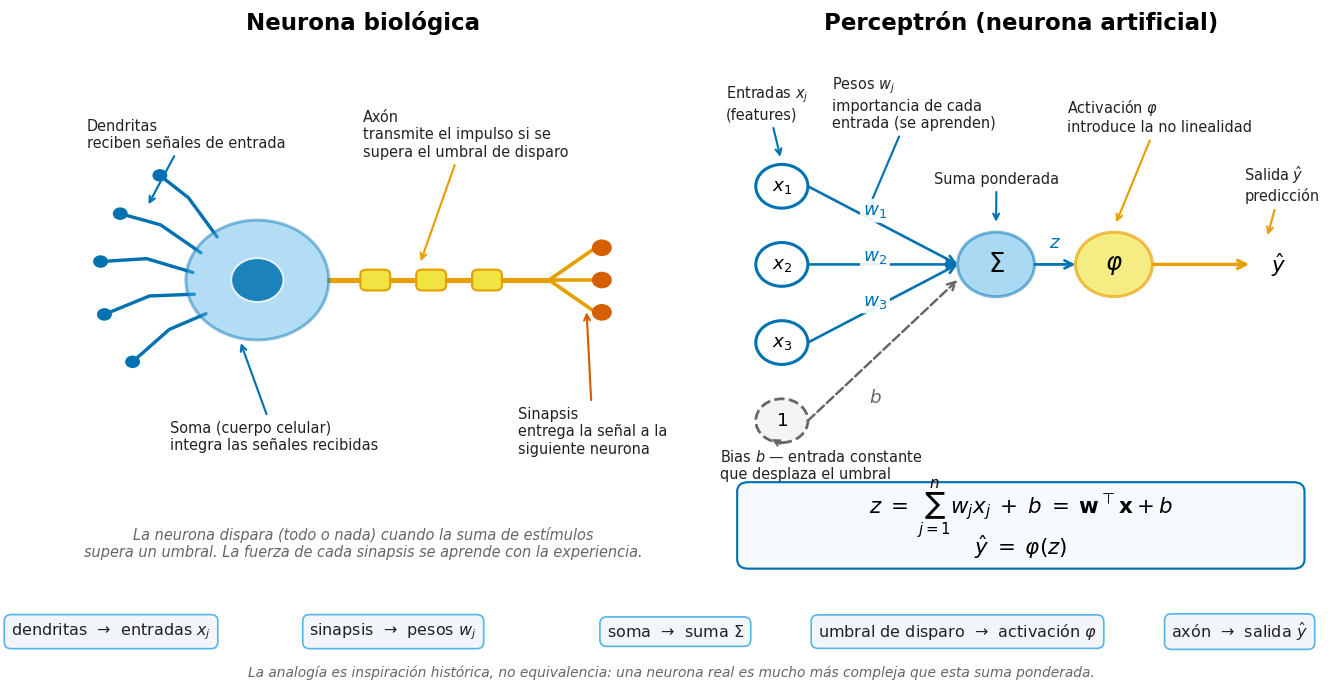
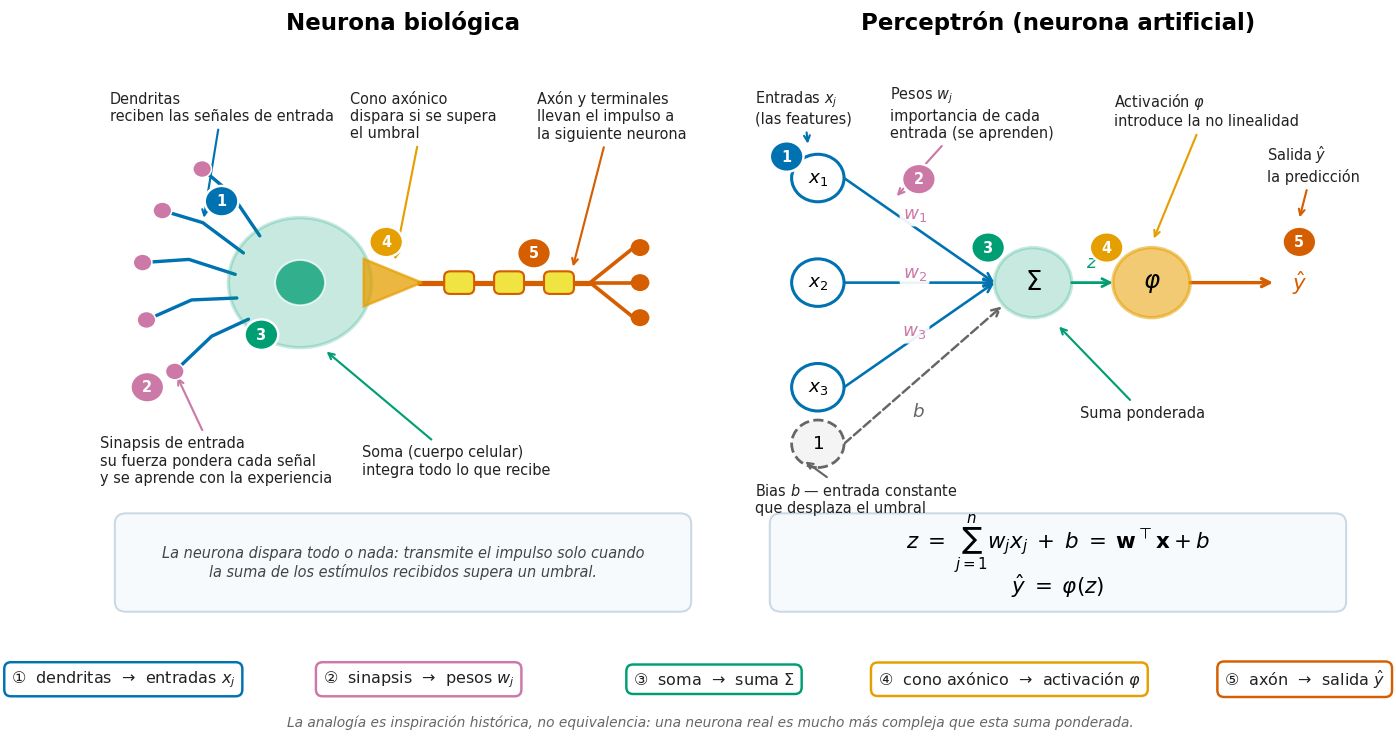
mejora: liga ambos paneles de la figura neurona/perceptrón y corrige la sinapsis
La versión anterior etiquetaba como 'Sinapsis' los terminales del axón, que
son la salida, mientras el mapa inferior decía 'sinapsis → pesos'. Los pesos
corresponden a las sinapsis de ENTRADA (los contactos sobre las dendritas):
ahora se dibujan y etiquetan ahí, y el terminal axónico pasa a ser la salida.

Además, cada componente lleva un número ①-⑤ y un color propio repetidos en
los dos paneles y en el mapa, de modo que la correspondencia se lee mirando
el dibujo en vez de reconstruirla desde el texto. Se añade el cono axónico
(el equivalente biológico de φ, antes ausente) y ambos paneles cierran con
una caja simétrica.

diff --git a/src/figuras/generar_estaticas.py b/src/figuras/generar_estaticas.py
@@ -22,7 +22,6 @@ import numpy as np
 from .estilo import (
     AMARILLO,
     AZUL,
-    CELESTE,
     GRIS,
     MORADO,
     NARANJA,
@@ -496,172 +495,238 @@ def fig_complejidad() -> None:
 
 def fig_neurona_vs_perceptron() -> None:
     """Anatomía comparada: neurona biológica (izquierda) vs perceptrón (derecha).
-    Diagrama didáctico dibujado con patches; define cada componente y la
-    correspondencia entre ambos modelos."""
-    from matplotlib.patches import Circle, FancyArrowPatch, FancyBboxPatch
 
-    fig, (ax_bio, ax_art) = plt.subplots(1, 2, figsize=(15, 6.4))
+    Cada componente lleva un número ①-⑤ y un color propio que se repiten en
+    ambos paneles y en el mapa inferior: así la correspondencia se lee mirando
+    el dibujo, sin tener que reconstruirla desde el texto.
+
+    Precisión importante: los pesos corresponden a las sinapsis de ENTRADA
+    (los contactos sobre las dendritas), no a los terminales del axón, que son
+    la salida hacia la siguiente neurona.
+    """
+    from matplotlib.patches import Circle, FancyArrowPatch, FancyBboxPatch, Polygon
+
+    # Un color por componente, repetido en ambos paneles (paleta Okabe-Ito)
+    C_ENTRADA, C_PESO, C_SUMA, C_ACT, C_SALIDA = AZUL, MORADO, VERDE, NARANJA, ROJO
+
+    fig, (ax_bio, ax_art) = plt.subplots(1, 2, figsize=(15, 6.9))
     for ax in (ax_bio, ax_art):
         ax.set_xlim(0, 10)
         ax.set_ylim(0, 10)
         ax.axis("off")
         ax.grid(False)
 
-    # ─────────────── Panel izquierdo: neurona biológica ───────────────
-    ax_bio.set_title("Neurona biológica", fontsize=15, fontweight="bold", pad=14)
+    def badge(ax, x: float, y: float, n: int, color: str) -> None:
+        """Marca numerada que liga un componente con su par del otro panel."""
+        ax.add_patch(Circle((x, y), 0.27, facecolor=color, edgecolor="white",
+                            linewidth=1.6, zorder=7))
+        ax.text(x, y, str(n), ha="center", va="center", fontsize=9.5,
+                color="white", fontweight="bold", zorder=8)
 
-    y_soma = 5.6   # centro vertical del soma; alinea el panel con el del perceptrón
-
-    # Soma (cuerpo celular) y núcleo
-    ax_bio.add_patch(Circle((3.3, y_soma), 1.15, facecolor=CELESTE, alpha=0.45,
-                            edgecolor=AZUL, linewidth=2.0, zorder=3))
-    ax_bio.add_patch(Circle((3.3, y_soma), 0.42, facecolor=AZUL, alpha=0.85,
-                            edgecolor="white", linewidth=1.2, zorder=4))
-
-    # Dendritas: ramas que ENTRAN al soma (las "features" del mundo)
-    for ang in (150, 172, 195, 128, 218):
-        rad = np.deg2rad(ang)
-        x0, y0 = 3.3 + 2.55 * np.cos(rad), y_soma + 2.55 * np.sin(rad)
-        x1, y1 = 3.3 + 1.05 * np.cos(rad), y_soma + 1.05 * np.sin(rad)
-        xm, ym = (x0 + x1) / 2, (y0 + y1) / 2 + 0.16
-        ax_bio.plot([x0, xm, x1], [y0, ym, y1], color=AZUL, linewidth=2.2,
-                    solid_capstyle="round", zorder=2)
-        ax_bio.add_patch(Circle((x0, y0), 0.12, facecolor=AZUL, zorder=2))
-
-    # Axón: el canal de salida, con vainas de mielina
-    ax_bio.plot([4.45, 8.0], [y_soma, y_soma], color=NARANJA, linewidth=3.4,
-                solid_capstyle="round", zorder=2)
-    for xm in (5.2, 6.1, 7.0):
-        ax_bio.add_patch(FancyBboxPatch((xm - 0.22, y_soma - 0.18), 0.44, 0.36,
-                                        boxstyle="round,pad=0.02,rounding_size=0.1",
-                                        facecolor=AMARILLO, edgecolor=NARANJA,
-                                        linewidth=1.4, zorder=3))
-    # Terminales axónicos (sinapsis)
-    for dy in (0.62, 0.0, -0.62):
-        ax_bio.plot([8.0, 8.75], [y_soma, y_soma + dy], color=NARANJA, linewidth=2.4,
-                    solid_capstyle="round", zorder=2)
-        ax_bio.add_patch(Circle((8.85, y_soma + dy), 0.16, facecolor=ROJO, zorder=3))
-
-    anotaciones_bio = [
-        ("Dendritas\nreciben señales de entrada", (0.55, 8.4), (1.5, 6.95), AZUL),
-        ("Soma (cuerpo celular)\nintegra las señales recibidas", (1.9, 2.6), (3.0, 4.5), AZUL),
-        ("Axón\ntransmite el impulso si se\nsupera el umbral de disparo", (5.0, 8.4), (5.9, 5.85), NARANJA),
-        ("Sinapsis\nentrega la señal a la\nsiguiente neurona", (7.5, 2.7), (8.6, 5.1), ROJO),
-    ]
-    for texto, xy_text, xy_punta, color in anotaciones_bio:
-        ax_bio.annotate(texto, xy=xy_punta, xytext=xy_text, fontsize=9.5,
+    def anotar(ax, anotaciones) -> None:
+        for texto, xy_text, xy_punta, color in anotaciones:
+            ax.annotate(texto, xy=xy_punta, xytext=xy_text, fontsize=9.5,
                         color="#222222", ha="left", va="center",
                         arrowprops=dict(arrowstyle="->", color=color,
                                         linewidth=1.4, shrinkA=2, shrinkB=4))
 
-    ax_bio.text(5.0, 0.55,
-                "La neurona dispara (todo o nada) cuando la suma de estímulos\n"
-                "supera un umbral. La fuerza de cada sinapsis se aprende con la experiencia.",
-                ha="center", va="center", fontsize=9.5, style="italic", color=GRIS)
+    def nota(ax, texto: str) -> None:
+        """Caja inferior; ambos paneles la comparten para quedar simétricos."""
+        ax.add_patch(FancyBboxPatch((0.5, 0.2), 9.0, 1.5,
+                                    boxstyle="round,pad=0.12,rounding_size=0.18",
+                                    facecolor="#F7FAFD", edgecolor="#C9D8E4",
+                                    linewidth=1.3, zorder=1))
+        ax.text(5.0, 0.95, texto, ha="center", va="center", fontsize=9.5,
+                style="italic", color="#444444", zorder=2)
+
+    # ─────────────── Panel izquierdo: neurona biológica ───────────────
+    ax_bio.set_title("Neurona biológica", fontsize=15, fontweight="bold", pad=14)
+
+    x_soma, y_soma = 3.35, 5.9   # y_soma = y_centro del perceptrón: paneles alineados
+
+    # Soma (cuerpo celular) y núcleo — integra: es el Σ biológico
+    ax_bio.add_patch(Circle((x_soma, y_soma), 1.15, facecolor=C_SUMA, alpha=0.22,
+                            edgecolor=C_SUMA, linewidth=2.2, zorder=3))
+    ax_bio.add_patch(Circle((x_soma, y_soma), 0.40, facecolor=C_SUMA, alpha=0.75,
+                            edgecolor="white", linewidth=1.2, zorder=4))
+
+    # Dendritas, con su contacto sináptico de entrada en la punta
+    ang_dendritas = (128, 150, 172, 195, 218)
+    for ang in ang_dendritas:
+        rad = np.deg2rad(ang)
+        x0, y0 = x_soma + 2.55 * np.cos(rad), y_soma + 2.55 * np.sin(rad)
+        x1, y1 = x_soma + 1.05 * np.cos(rad), y_soma + 1.05 * np.sin(rad)
+        xm, ym = (x0 + x1) / 2, (y0 + y1) / 2 + 0.16
+        ax_bio.plot([x0, xm, x1], [y0, ym, y1], color=C_ENTRADA, linewidth=2.2,
+                    solid_capstyle="round", zorder=2)
+        # La punta es la sinapsis: su fuerza es lo que el perceptrón llama peso
+        ax_bio.add_patch(Circle((x0, y0), 0.15, facecolor=C_PESO,
+                                edgecolor="white", linewidth=1.0, zorder=5))
+
+    # Cono axónico: donde se decide el disparo — el φ biológico
+    ax_bio.add_patch(Polygon([[x_soma + 1.02, y_soma + 0.42],
+                              [x_soma + 1.02, y_soma - 0.42],
+                              [x_soma + 1.95, y_soma]],
+                             closed=True, facecolor=C_ACT, alpha=0.75,
+                             edgecolor=C_ACT, linewidth=1.6, zorder=4))
+
+    # Axón, con sus vainas de mielina, y terminales hacia la siguiente neurona
+    ax_bio.plot([x_soma + 1.9, 8.0], [y_soma, y_soma], color=C_SALIDA,
+                linewidth=3.4, solid_capstyle="round", zorder=2)
+    for xm in (5.9, 6.7, 7.5):
+        ax_bio.add_patch(FancyBboxPatch((xm - 0.22, y_soma - 0.18), 0.44, 0.36,
+                                        boxstyle="round,pad=0.02,rounding_size=0.1",
+                                        facecolor=AMARILLO, edgecolor=C_SALIDA,
+                                        linewidth=1.4, zorder=3))
+    for dy in (0.62, 0.0, -0.62):
+        ax_bio.plot([8.0, 8.7], [y_soma, y_soma + dy], color=C_SALIDA,
+                    linewidth=2.4, solid_capstyle="round", zorder=2)
+        ax_bio.add_patch(Circle((8.8, y_soma + dy), 0.15, facecolor=C_SALIDA,
+                                zorder=3))
+
+    # Puntos de referencia sobre dendritas concretas, para badges y flechas
+    r150 = np.deg2rad(150)
+    med_dendrita = (x_soma + 1.8 * np.cos(r150), y_soma + 1.8 * np.sin(r150) + 0.14)
+    r218 = np.deg2rad(218)
+    sinapsis_baja = (x_soma + 2.55 * np.cos(r218), y_soma + 2.55 * np.sin(r218))
+
+    badge(ax_bio, med_dendrita[0] + 0.30, med_dendrita[1] + 0.40, 1, C_ENTRADA)
+    badge(ax_bio, sinapsis_baja[0] - 0.44, sinapsis_baja[1] - 0.28, 2, C_PESO)
+    badge(ax_bio, x_soma - 0.62, y_soma - 0.92, 3, C_SUMA)
+    badge(ax_bio, x_soma + 1.38, y_soma + 0.72, 4, C_ACT)
+    badge(ax_bio, 7.1, y_soma + 0.52, 5, C_SALIDA)
+
+    anotar(ax_bio, [
+        ("Dendritas\nreciben las señales de entrada",
+         (0.3, 9.0), med_dendrita, C_ENTRADA),
+        ("Sinapsis de entrada\nsu fuerza pondera cada señal\ny se aprende con la experiencia",
+         (0.15, 2.75), sinapsis_baja, C_PESO),
+        ("Soma (cuerpo celular)\nintegra todo lo que recibe",
+         (4.35, 2.75), (x_soma + 0.35, y_soma - 1.15), C_SUMA),
+        ("Cono axónico\ndispara si se supera\nel umbral",
+         (4.15, 8.85), (x_soma + 1.5, y_soma + 0.3), C_ACT),
+        ("Axón y terminales\nllevan el impulso a\nla siguiente neurona",
+         (7.15, 8.85), (7.7, y_soma + 0.18), C_SALIDA),
+    ])
+
+    nota(ax_bio, "La neurona dispara todo o nada: transmite el impulso solo cuando\n"
+                 "la suma de los estímulos recibidos supera un umbral.")
 
     # ─────────────── Panel derecho: perceptrón ───────────────
     ax_art.set_title("Perceptrón (neurona artificial)", fontsize=15,
                      fontweight="bold", pad=14)
 
-    entradas = [("$x_1$", 7.4), ("$x_2$", 5.9), ("$x_3$", 4.4)]
-    x_in, x_sum, x_act, x_out = 1.15, 4.6, 6.5, 8.8
+    entradas = [("$x_1$", 7.75), ("$x_2$", 5.9), ("$x_3$", 4.05)]
+    x_in, x_sum, x_act, x_out = 1.15, 4.6, 6.5, 8.55
     y_centro = 5.9
 
     # Nodos de entrada + aristas ponderadas
     for i, (etq, y) in enumerate(entradas, start=1):
         ax_art.add_patch(Circle((x_in, y), 0.42, facecolor="white",
-                                edgecolor=AZUL, linewidth=2.0, zorder=3))
+                                edgecolor=C_ENTRADA, linewidth=2.0, zorder=3))
         ax_art.text(x_in, y, etq, ha="center", va="center", fontsize=12, zorder=4)
         ax_art.add_patch(FancyArrowPatch((x_in + 0.42, y), (x_sum - 0.62, y_centro),
                                          arrowstyle="->", mutation_scale=13,
-                                         color=AZUL, linewidth=1.7,
+                                         color=C_ENTRADA, linewidth=1.7,
                                          shrinkA=0, shrinkB=0, zorder=2))
-        # Etiqueta del peso sobre la arista
-        xw, yw = x_in + 1.5, y + (y_centro - y) * 0.42 + 0.16
-        ax_art.text(xw, yw, f"$w_{i}$", fontsize=12, color=AZUL,
+        # Etiqueta del peso sobre la arista: el color la liga con la sinapsis
+        xw, yw = x_in + 1.55, y + (y_centro - y) * 0.44 + 0.17
+        ax_art.text(xw, yw, f"$w_{i}$", fontsize=12, color=C_PESO,
                     fontweight="bold", ha="center", va="center",
                     bbox=dict(boxstyle="round,pad=0.16", facecolor="white",
                               edgecolor="none", alpha=0.92), zorder=4)
 
     # Bias: entrada constante = 1
-    ax_art.add_patch(Circle((x_in, 2.9), 0.42, facecolor="#F4F4F4",
+    ax_art.add_patch(Circle((x_in, 3.05), 0.42, facecolor="#F4F4F4",
                             edgecolor=GRIS, linewidth=1.8, linestyle="--", zorder=3))
-    ax_art.text(x_in, 2.9, "$1$", ha="center", va="center", fontsize=12, zorder=4)
-    ax_art.add_patch(FancyArrowPatch((x_in + 0.42, 2.9), (x_sum - 0.62, y_centro - 0.3),
+    ax_art.text(x_in, 3.05, "$1$", ha="center", va="center", fontsize=12, zorder=4)
+    ax_art.add_patch(FancyArrowPatch((x_in + 0.42, 3.05), (x_sum - 0.5, y_centro - 0.42),
                                      arrowstyle="->", mutation_scale=13, color=GRIS,
                                      linewidth=1.6, linestyle="--",
                                      shrinkA=0, shrinkB=0, zorder=2))
-    ax_art.text(x_in + 1.5, 3.35, "$b$", fontsize=12, color=GRIS, fontweight="bold",
+    ax_art.text(x_in + 1.62, 3.62, "$b$", fontsize=12, color=GRIS, fontweight="bold",
                 ha="center", va="center",
                 bbox=dict(boxstyle="round,pad=0.16", facecolor="white",
                           edgecolor="none", alpha=0.92), zorder=4)
 
-    # Nodo suma (Σ)
-    ax_art.add_patch(Circle((x_sum, y_centro), 0.62, facecolor=CELESTE, alpha=0.5,
-                            edgecolor=AZUL, linewidth=2.0, zorder=3))
+    # Nodo suma (Σ) — el soma artificial
+    ax_art.add_patch(Circle((x_sum, y_centro), 0.62, facecolor=C_SUMA, alpha=0.22,
+                            edgecolor=C_SUMA, linewidth=2.2, zorder=3))
     ax_art.text(x_sum, y_centro, r"$\Sigma$", ha="center", va="center",
                 fontsize=17, zorder=4)
 
-    # Nodo activación (φ)
+    # Nodo activación (φ) — el umbral artificial
     ax_art.add_patch(FancyArrowPatch((x_sum + 0.62, y_centro), (x_act - 0.62, y_centro),
-                                     arrowstyle="->", mutation_scale=13, color=AZUL,
+                                     arrowstyle="->", mutation_scale=13, color=C_SUMA,
                                      linewidth=1.8, shrinkA=0, shrinkB=0, zorder=2))
-    ax_art.text((x_sum + x_act) / 2, y_centro + 0.42, "$z$", fontsize=12,
-                color=AZUL, ha="center", va="center", zorder=4)
-    ax_art.add_patch(Circle((x_act, y_centro), 0.62, facecolor=AMARILLO, alpha=0.65,
-                            edgecolor=NARANJA, linewidth=2.0, zorder=3))
+    ax_art.text((x_sum + x_act) / 2, y_centro + 0.36, "$z$", fontsize=12,
+                color=C_SUMA, ha="center", va="center", zorder=4)
+    ax_art.add_patch(Circle((x_act, y_centro), 0.62, facecolor=C_ACT, alpha=0.55,
+                            edgecolor=C_ACT, linewidth=2.2, zorder=3))
     ax_art.text(x_act, y_centro, r"$\varphi$", ha="center", va="center",
                 fontsize=16, zorder=4)
 
     # Salida
-    ax_art.add_patch(FancyArrowPatch((x_act + 0.62, y_centro), (x_out - 0.12, y_centro),
-                                     arrowstyle="->", mutation_scale=13, color=NARANJA,
+    ax_art.add_patch(FancyArrowPatch((x_act + 0.62, y_centro), (x_out - 0.1, y_centro),
+                                     arrowstyle="->", mutation_scale=13, color=C_SALIDA,
                                      linewidth=2.2, shrinkA=0, shrinkB=0, zorder=2))
-    ax_art.text(x_out + 0.35, y_centro, r"$\hat{y}$", fontsize=14,
+    ax_art.text(x_out + 0.32, y_centro, r"$\hat{y}$", fontsize=14, color=C_SALIDA,
                 fontweight="bold", ha="center", va="center", zorder=4)
 
-    anotaciones_art = [
-        ("Entradas $x_j$\n(features)", (0.25, 9.0), (x_in, 7.85), AZUL),
-        ("Pesos $w_j$\nimportancia de cada\nentrada (se aprenden)", (1.95, 9.0), (2.5, 6.85), AZUL),
-        ("Bias $b$ — entrada constante\nque desplaza el umbral", (0.15, 2.05), (x_in - 0.25, 2.6), GRIS),
-        ("Suma ponderada", (3.6, 7.55), (x_sum, 6.6), AZUL),
-        ("Activación $\\varphi$\nintroduce la no linealidad", (5.75, 8.75), (x_act, 6.6), NARANJA),
-        ("Salida $\\hat{y}$\npredicción", (8.6, 7.45), (x_out + 0.15, 6.35), NARANJA),
-    ]
-    for texto, xy_text, xy_punta, color in anotaciones_art:
-        ax_art.annotate(texto, xy=xy_punta, xytext=xy_text, fontsize=9.5,
-                        color="#222222", ha="left", va="center",
-                        arrowprops=dict(arrowstyle="->", color=color,
-                                        linewidth=1.4, shrinkA=2, shrinkB=4))
+    badge(ax_art, x_in - 0.5, entradas[0][1] + 0.38, 1, C_ENTRADA)
+    badge(ax_art, x_in + 1.62, entradas[0][1] - 0.02, 2, C_PESO)
+    badge(ax_art, x_sum - 0.72, y_centro + 0.62, 3, C_SUMA)
+    badge(ax_art, x_act - 0.72, y_centro + 0.62, 4, C_ACT)
+    badge(ax_art, x_out + 0.32, y_centro + 0.72, 5, C_SALIDA)
 
-    # Fórmulas del perceptrón, en una caja limpia bajo el diagrama
-    ax_art.add_patch(FancyBboxPatch((0.55, 0.18), 8.9, 1.42,
+    anotar(ax_art, [
+        ("Entradas $x_j$\n(las features)",
+         (0.15, 9.0), (x_in - 0.15, entradas[0][1] + 0.5), C_ENTRADA),
+        ("Pesos $w_j$\nimportancia de cada\nentrada (se aprenden)",
+         (2.3, 8.9), (2.35, 7.35), C_PESO),
+        ("Bias $b$ — entrada constante\nque desplaza el umbral",
+         (0.15, 2.08), (x_in - 0.28, 2.8), GRIS),
+        ("Suma ponderada",
+         (5.35, 3.6), (x_sum + 0.35, y_centro - 0.7), C_SUMA),
+        ("Activación $\\varphi$\nintroduce la no linealidad",
+         (5.9, 8.95), (x_act, y_centro + 0.68), C_ACT),
+        ("Salida $\\hat{y}$\nla predicción",
+         (8.35, 8.0), (x_out + 0.3, y_centro + 1.05), C_SALIDA),
+    ])
+
+    # Fórmulas: misma caja que la nota del panel bio, para que ambos cierren igual
+    ax_art.add_patch(FancyBboxPatch((0.5, 0.2), 9.0, 1.5,
                                     boxstyle="round,pad=0.12,rounding_size=0.18",
-                                    facecolor="#F7FAFD", edgecolor=AZUL,
-                                    linewidth=1.4, zorder=1))
-    ax_art.text(5.0, 1.2,
+                                    facecolor="#F7FAFD", edgecolor="#C9D8E4",
+                                    linewidth=1.3, zorder=1))
+    ax_art.text(5.0, 1.28,
                 r"$z \;=\; \sum_{j=1}^{n} w_j x_j \;+\; b \;=\; "
                 r"\mathbf{w}^\top \mathbf{x} + b$",
                 ha="center", va="center", fontsize=14, zorder=2)
-    ax_art.text(5.0, 0.48, r"$\hat{y} \;=\; \varphi(z)$",
+    ax_art.text(5.0, 0.54, r"$\hat{y} \;=\; \varphi(z)$",
                 ha="center", va="center", fontsize=14, zorder=2)
 
-    # ─────────────── Correspondencia entre ambos modelos ───────────────
-    fig.subplots_adjust(bottom=0.16, top=0.90, wspace=0.06)
-    pares = [("dendritas", r"entradas $x_j$"), ("sinapsis", r"pesos $w_j$"),
-             ("soma", r"suma $\Sigma$"), ("umbral de disparo", r"activación $\varphi$"),
-             ("axón", r"salida $\hat{y}$")]
-    x0, ancho = 0.075, 0.855 / len(pares)
-    for i, (bio, art) in enumerate(pares):
-        fig.text(x0 + ancho * (i + 0.5), 0.075, f"{bio}  →  {art}",
+    # ─────────────── Mapa de correspondencia ───────────────
+    fig.subplots_adjust(bottom=0.155, top=0.90, wspace=0.05)
+    pares = [
+        ("①", "dendritas", r"entradas $x_j$", C_ENTRADA),
+        ("②", "sinapsis", r"pesos $w_j$", C_PESO),
+        ("③", "soma", r"suma $\Sigma$", C_SUMA),
+        ("④", "cono axónico", r"activación $\varphi$", C_ACT),
+        ("⑤", "axón", r"salida $\hat{y}$", C_SALIDA),
+    ]
+    x0, ancho = 0.055, 0.895 / len(pares)
+    for i, (num, bio, art, color) in enumerate(pares):
+        fig.text(x0 + ancho * (i + 0.5), 0.072, f"{num}  {bio}  →  {art}",
                  ha="center", va="center", fontsize=10.5, color="#222222",
-                 bbox=dict(boxstyle="round,pad=0.42", facecolor="#F2F6FA",
-                           edgecolor=CELESTE, linewidth=1.1))
-    fig.text(0.5, 0.018,
+                 bbox=dict(boxstyle="round,pad=0.42", facecolor="white",
+                           edgecolor=color, linewidth=1.6))
+    fig.text(0.5, 0.016,
              "La analogía es inspiración histórica, no equivalencia: una neurona real "
              "es mucho más compleja que esta suma ponderada.",
              ha="center", va="center", fontsize=9, style="italic", color=GRIS)
     fig.savefig(DESTINO / "neurona_vs_perceptron.png")
+    plt.close(fig)
 
 
 def main() -> None:

diff --git a/sesiones/01-fundamentos.md b/sesiones/01-fundamentos.md
@@ -122,11 +122,16 @@ En el repo esto ya está encapsulado: [`src/utils.py → detectar_dispositivo()`
 
 ![Anatomía comparada: neurona biológica vs perceptrón, con sus componentes y fórmulas](../docs/assets/figuras/neurona_vs_perceptron.png)
 
-El perceptrón nació como una **analogía** de la neurona biológica: las dendritas reciben
-señales (entradas $x_j$), cada sinapsis las pondera con una fuerza aprendida (pesos $w_j$),
-el soma las integra (suma $\Sigma$) y el axón dispara si se supera un umbral (activación
-$\varphi$). La analogía es inspiración histórica, no equivalencia: una neurona real es
-mucho más compleja que una suma ponderada.
+El perceptrón nació como una **analogía** de la neurona biológica, y los números de la
+figura siguen esa correspondencia: las dendritas reciben las señales ① (entradas $x_j$),
+cada sinapsis de entrada las pondera con una fuerza que se aprende ② (pesos $w_j$), el
+soma integra todo lo que recibe ③ (suma $\Sigma$), el cono axónico dispara si se supera
+el umbral ④ (activación $\varphi$) y el axón lleva el impulso a la siguiente neurona ⑤
+(salida $\hat{y}$).
+
+Ojo con ②: lo que corresponde a los pesos son las sinapsis de **entrada**, no los
+terminales del axón — esos son la salida. Y la analogía es inspiración histórica, no
+equivalencia: una neurona real es mucho más compleja que una suma ponderada.
 
 $$
 z = \mathbf{w}^\top \mathbf{x} + b